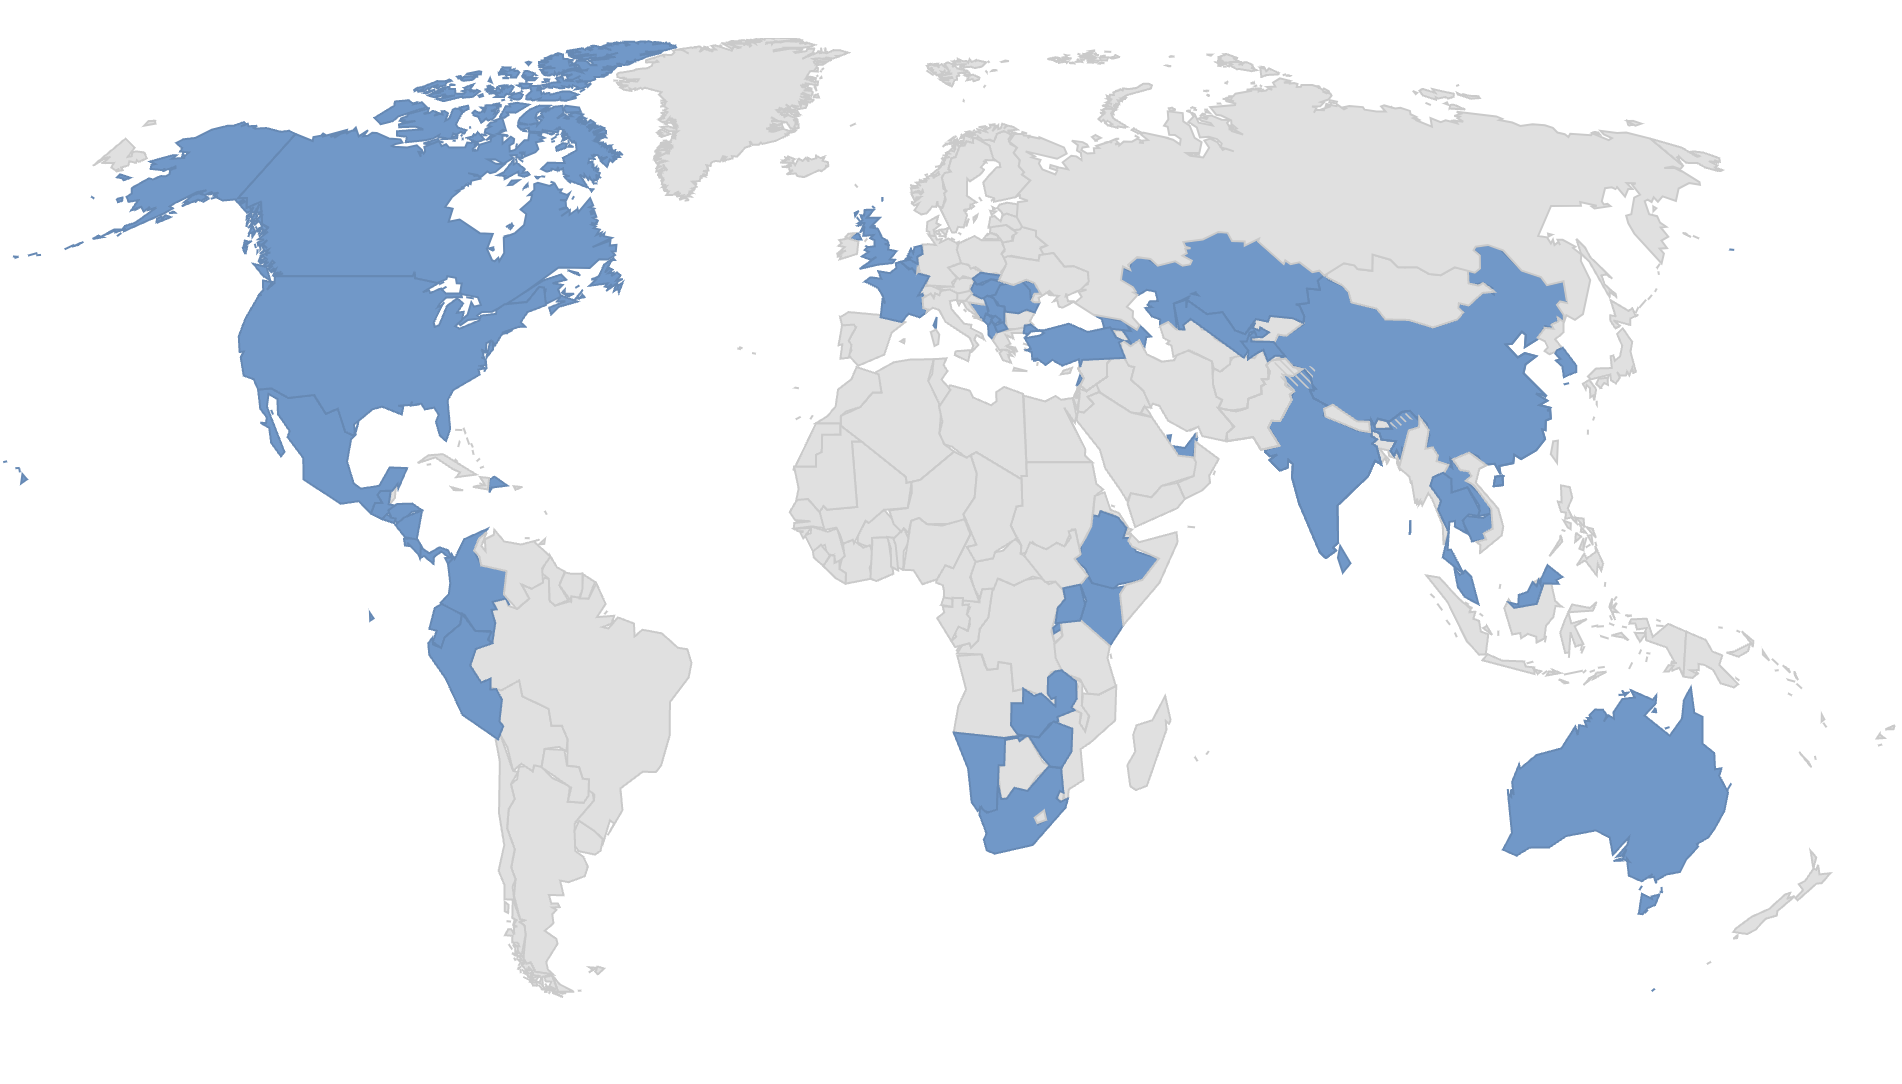
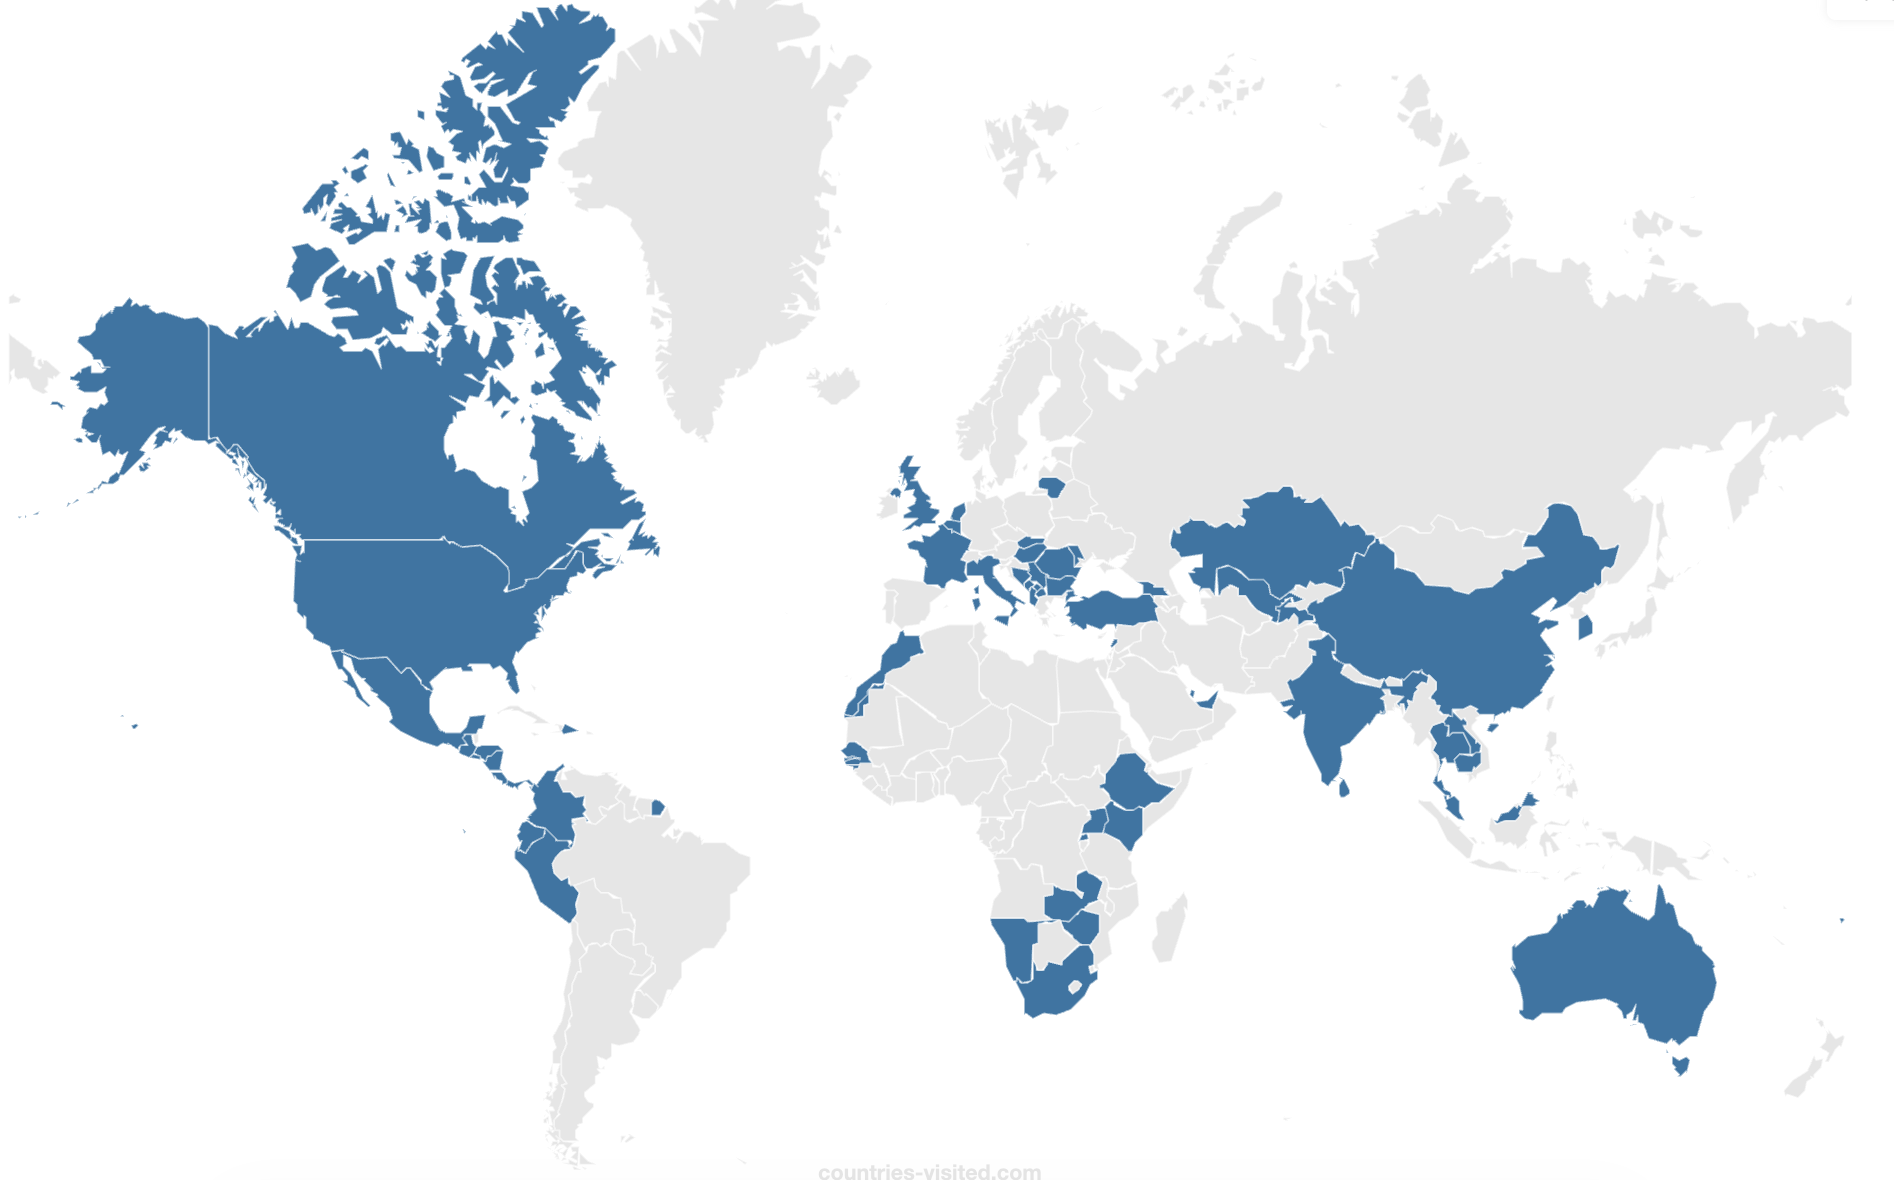
refactoring the misc about

diff --git a/_pages/about.md b/_pages/about.md
@@ -22,7 +22,10 @@ social: false  # includes social icons at the bottom of the page
 ---
 `Email:` avkalyan at cisco dot com (or) ak3ka at virginia dot edu <br/>
 
-I am a Research Engineer at Cisco Innovation Labs (Cisco CTO Team). I received my PhD under [Prof. Kamin Whitehouse](https://www.cs.virginia.edu/~whitehouse) in [Computer Science](https://www.cs.virginia.edu) at the [University of Virginia](https://www.virginia.edu). My PhD spanned the areas of Internet of Things, applied machine learning, wireless systems, mobile computing and cyber-physical systems. In particular, I built wireless sensing solutions that enabled smarter environments (buildings, automobiles, cities, etc) to improve the quality of our lives.
+I am a Research Engineer at Cisco Innovation Labs (Cisco CTO Team). I received my PhD under [Prof. Kamin
+Whitehouse](https://www.cs.virginia.edu/~whitehouse) in [Computer Science](https://www.cs.virginia.edu) at the
+[University of Virginia](https://www.virginia.edu). My PhD spanned the areas of Applied machine learning, Internet of
+Things, wireless systems, mobile computing and cyber-physical systems. In particular, I built sensing systems that enabled smarter environments (buildings, automobiles, cities, etc) to improve the quality of our lives.
 
 <br/>
 `My past life:`
@@ -30,4 +33,5 @@ I completed my B.E. from [College of Engineering, Guindy](http://ceg.annauniv.ed
 
 <br/>
 `My other life:`
-I am also an avid cricketer, rock-climber, backpacker and an amateur paraglider pilot. I am aiming to visit all countries in the world someday (current count = [55 countries](assets/img/countries.png)) 
+I am also an avid cricketer, rock-climber, backpacker and an amateur paraglider pilot. I am aiming to visit all
+countries in the world someday (current count = [65 countries](assets/img/countries.png)) 
